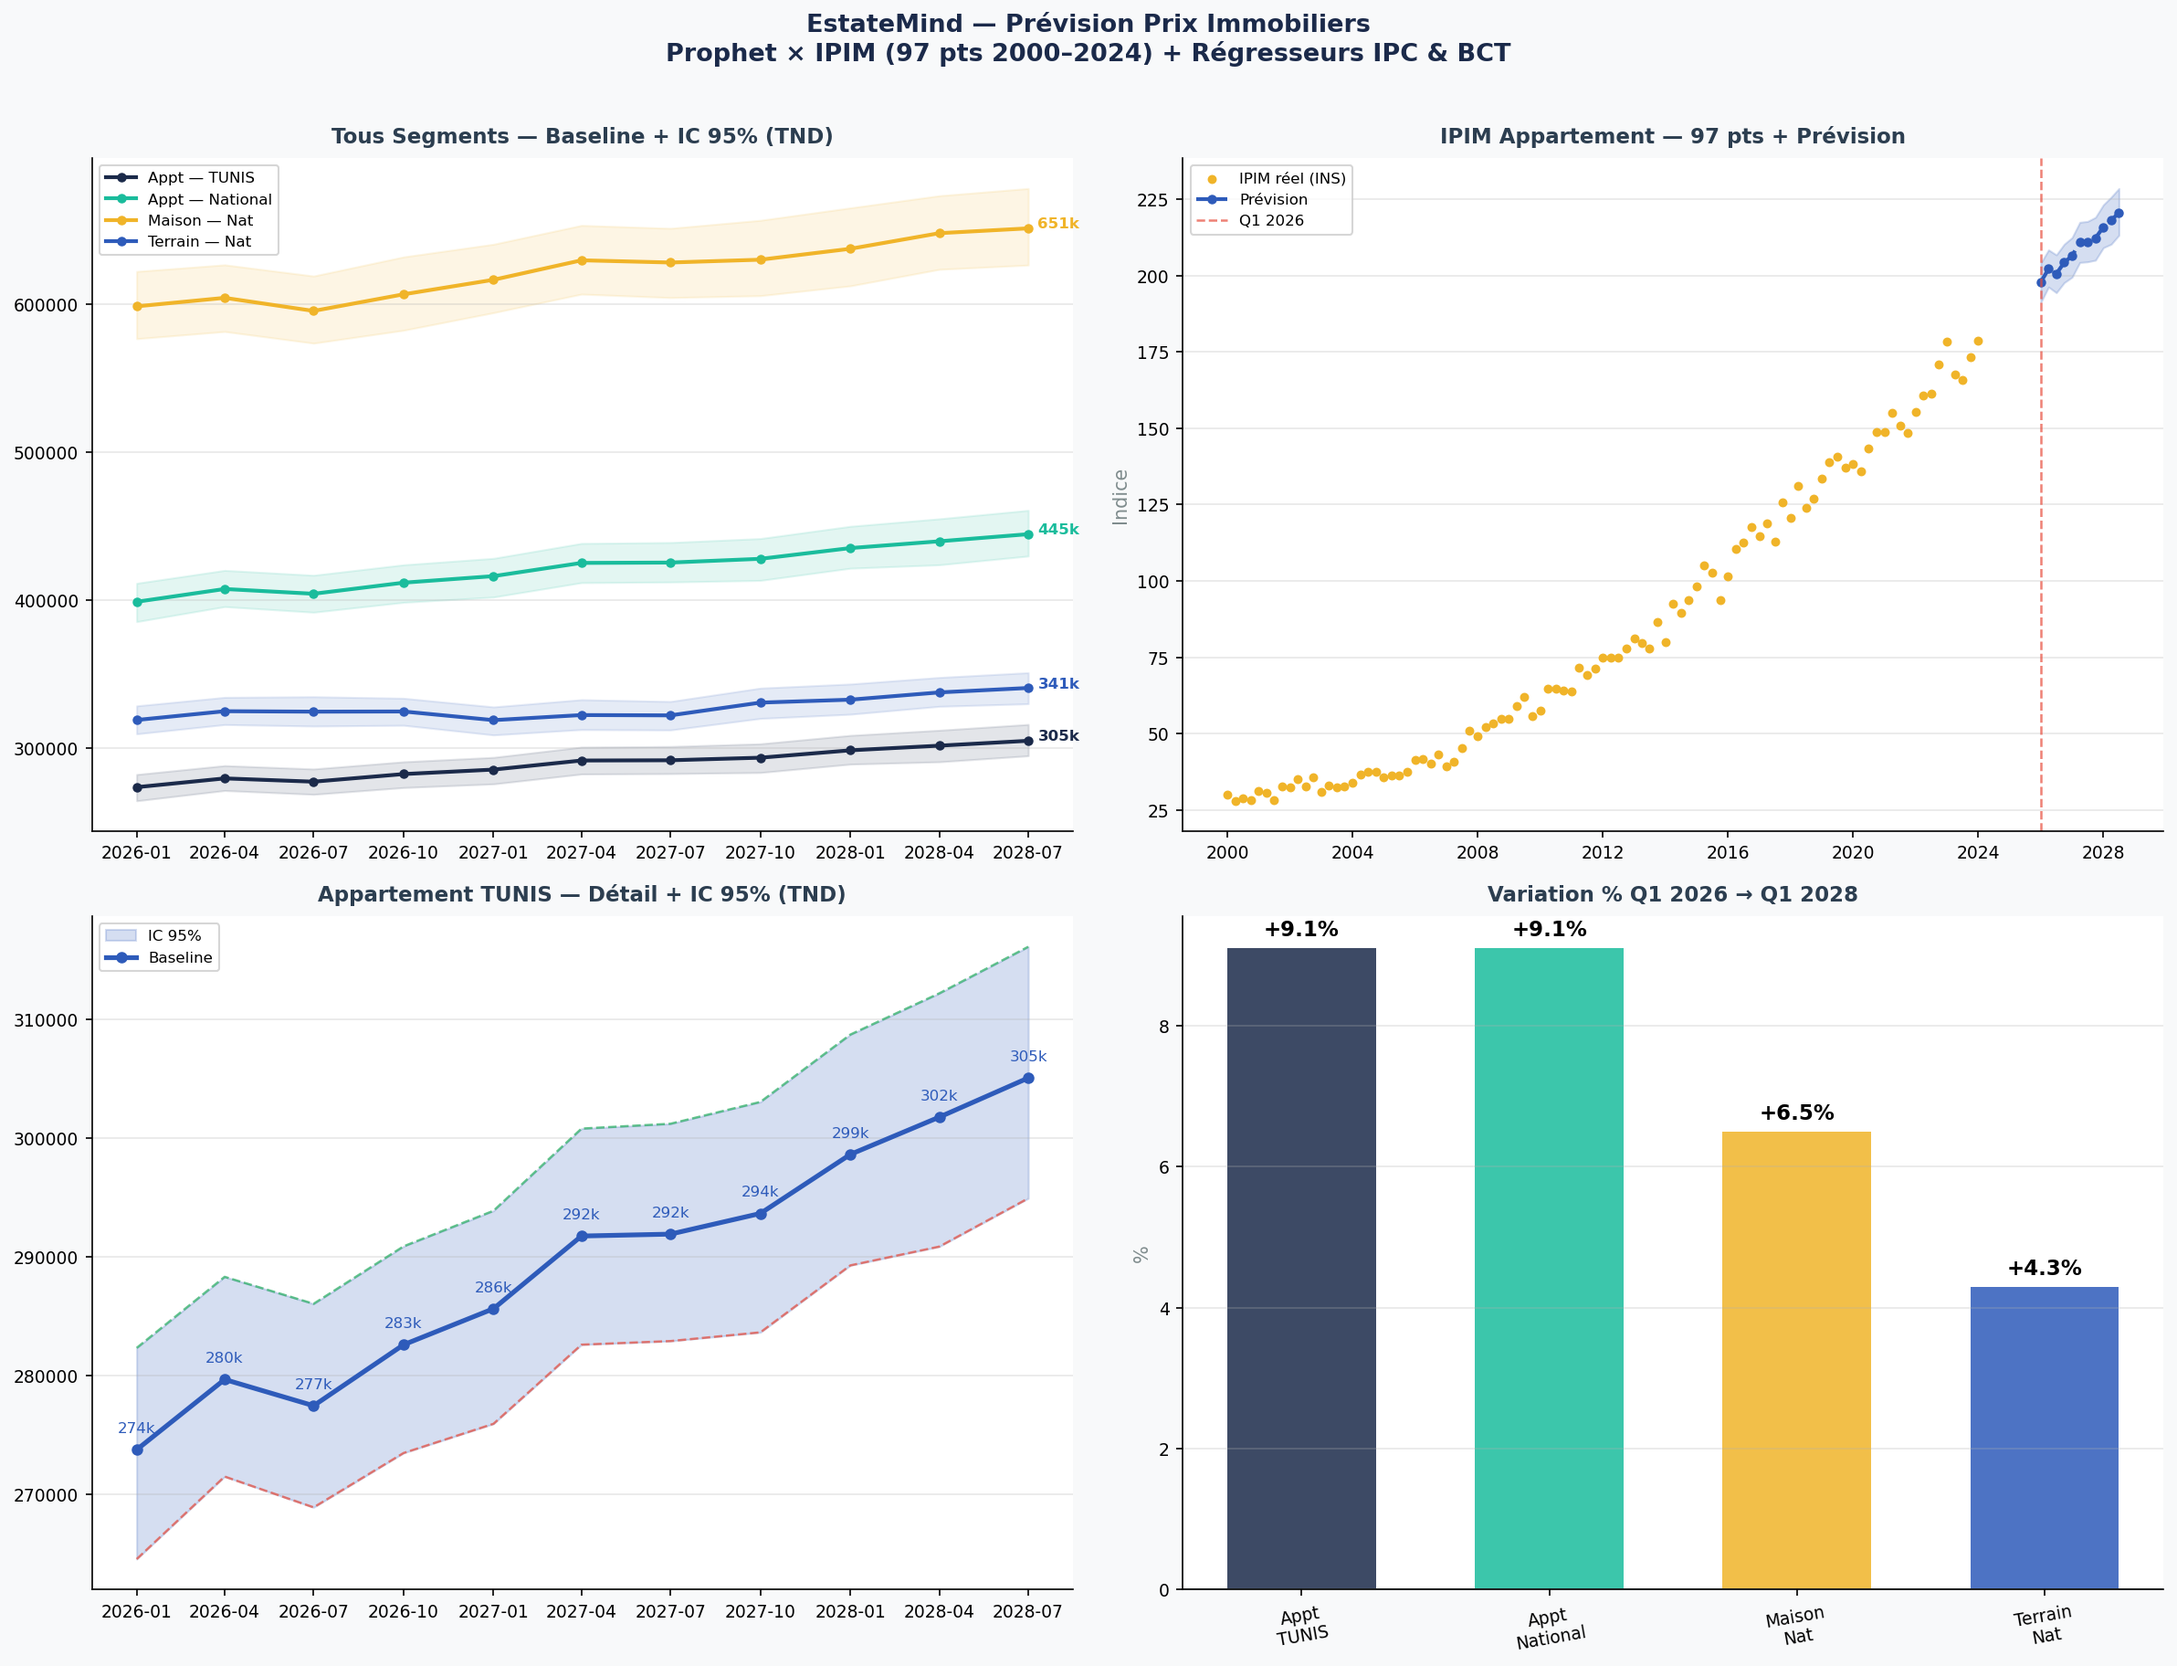
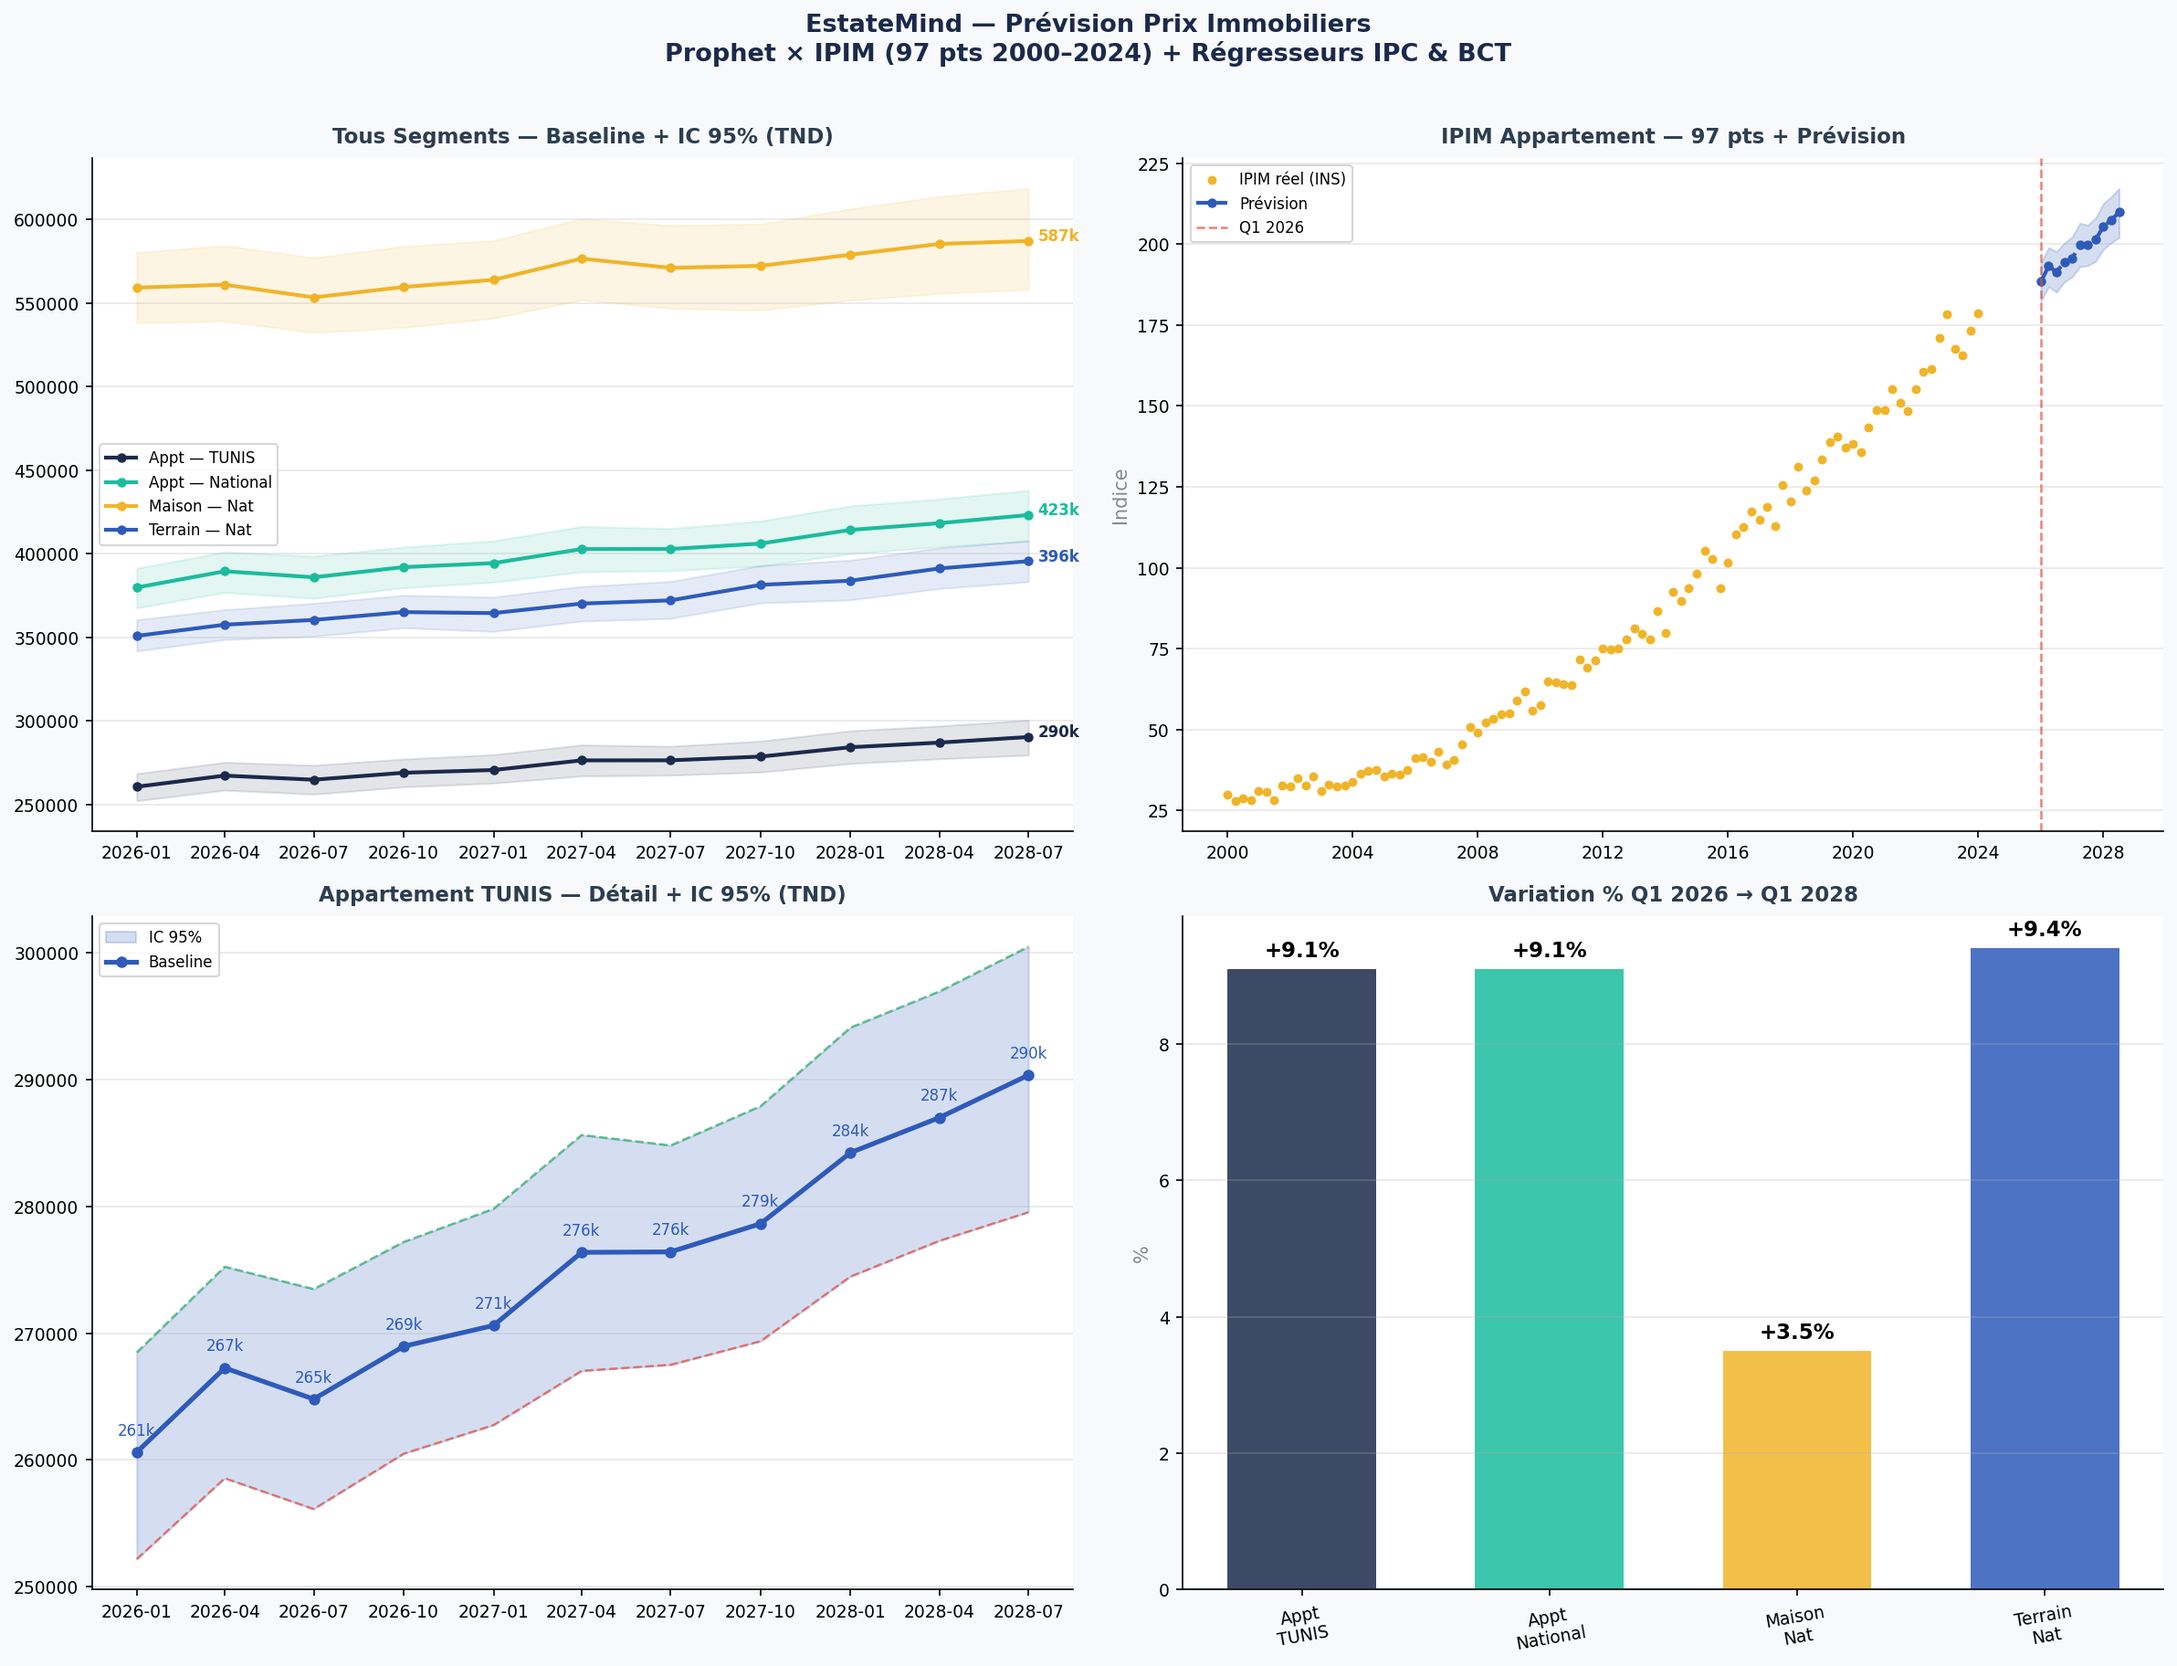
feat(serie_temporelle): persist fitted IPIM Prophet models as pkl files for price forcasting

diff --git a/data/serie_temporelle/price_forecasting.py b/data/serie_temporelle/price_forecasting.py
@@ -7,9 +7,14 @@ Run: python serie_temporelle/price_forecasting.py
   2. IPIM     — 97 quarterly points 2000-2024, base 2015=100 (INS)
   3. Prophet  — one model per type, regressors: IPC + Taux Directeur
   4. TND      — price(Q) = ipim_forecast(Q) × (anchor / ipim_at_2024Q1)
+
+PKL files saved per IPIM type:
+  prophet_ipim_appartement.pkl  ·  prophet_ipim_maison.pkl  ·  prophet_ipim_terrain.pkl
+  Usage: model = pickle.load(open('prophet_ipim_appartement.pkl', 'rb'))
 """
 import warnings; warnings.filterwarnings('ignore')
 from pathlib import Path
+import pickle
 import pandas as pd, numpy as np
 from prophet import Prophet
 import matplotlib; matplotlib.use('Agg')
@@ -20,7 +25,17 @@ EXPORTS = HERE / 'timeseries_exports'
 latest  = lambda p: sorted(EXPORTS.glob(p))[-1]
 
 # ── LOAD ──────────────────────────────────────────────────────────────────────
-ipim  = pd.read_csv(latest('ipim_historical*.csv'), on_bad_lines='skip', parse_dates=['date'])
+# Look for ipim_historical.csv in timeseries_exports/ OR the script's folder
+_ipim_candidates = list(EXPORTS.glob('ipim_historical*.csv')) + \
+                   list(HERE.glob('ipim_historical*.csv')) + \
+                   list(HERE.parent.glob('ipim_historical*.csv'))
+if not _ipim_candidates:
+    raise FileNotFoundError(
+        "ipim_historical.csv not found.\n"
+        f"Copy it to: {EXPORTS}\n"
+        "File to copy: ipim_historical__1_.csv (uploaded to EstateMind)"
+    )
+ipim  = pd.read_csv(_ipim_candidates[-1], on_bad_lines='skip', parse_dates=['date'])
 macro = pd.read_csv(latest('macro_wide_*.csv'), index_col='date', parse_dates=True)
 ipc_fc= pd.read_csv(EXPORTS/'forecast_ipc_12m.csv',   parse_dates=['ds'])
 td_fc = pd.read_csv(EXPORTS/'forecast_taux_directeur_12m.csv', parse_dates=['ds'])
@@ -64,6 +79,10 @@ for col in ['ipim_appartement', 'ipim_maison', 'ipim_terrain']:
                  changepoint_prior_scale=0.1, seasonality_prior_scale=5.0, interval_width=0.95)
     m.add_regressor('ipc_general_ins'); m.add_regressor('taux_directeur')
     m.fit(tr); fc_[col] = m.predict(fu)
+    # save fitted model as pkl
+    with open(EXPORTS / f'prophet_ipim_{col.replace("ipim_","")}.pkl', 'wb') as f:
+        pickle.dump(m, f)
+    print(f"  Saved prophet_ipim_{col.replace('ipim_','')}.pkl")
 
 # ── CONVERT INDEX → TND ───────────────────────────────────────────────────────
 # price_per_unit = anchor / ipim_at_2024Q1  (last real observation)
@@ -147,4 +166,6 @@ fig.suptitle('EstateMind — Prévision Prix Immobiliers\n'
              fontsize=13, fontweight='bold', color=C['navy'], y=1.01)
 plt.tight_layout()
 plt.savefig(EXPORTS / 'price_forecast_chart.png', dpi=150, bbox_inches='tight', facecolor=C['bg'])
-print(f"\nCSV + Chart → {EXPORTS}")
+print(f"\nCSV + Chart + PKL → {EXPORTS}")
+print("  price_forecast.csv  ·  price_forecast_chart.png")
+print("  prophet_ipim_appartement.pkl  ·  prophet_ipim_maison.pkl  ·  prophet_ipim_terrain.pkl")
